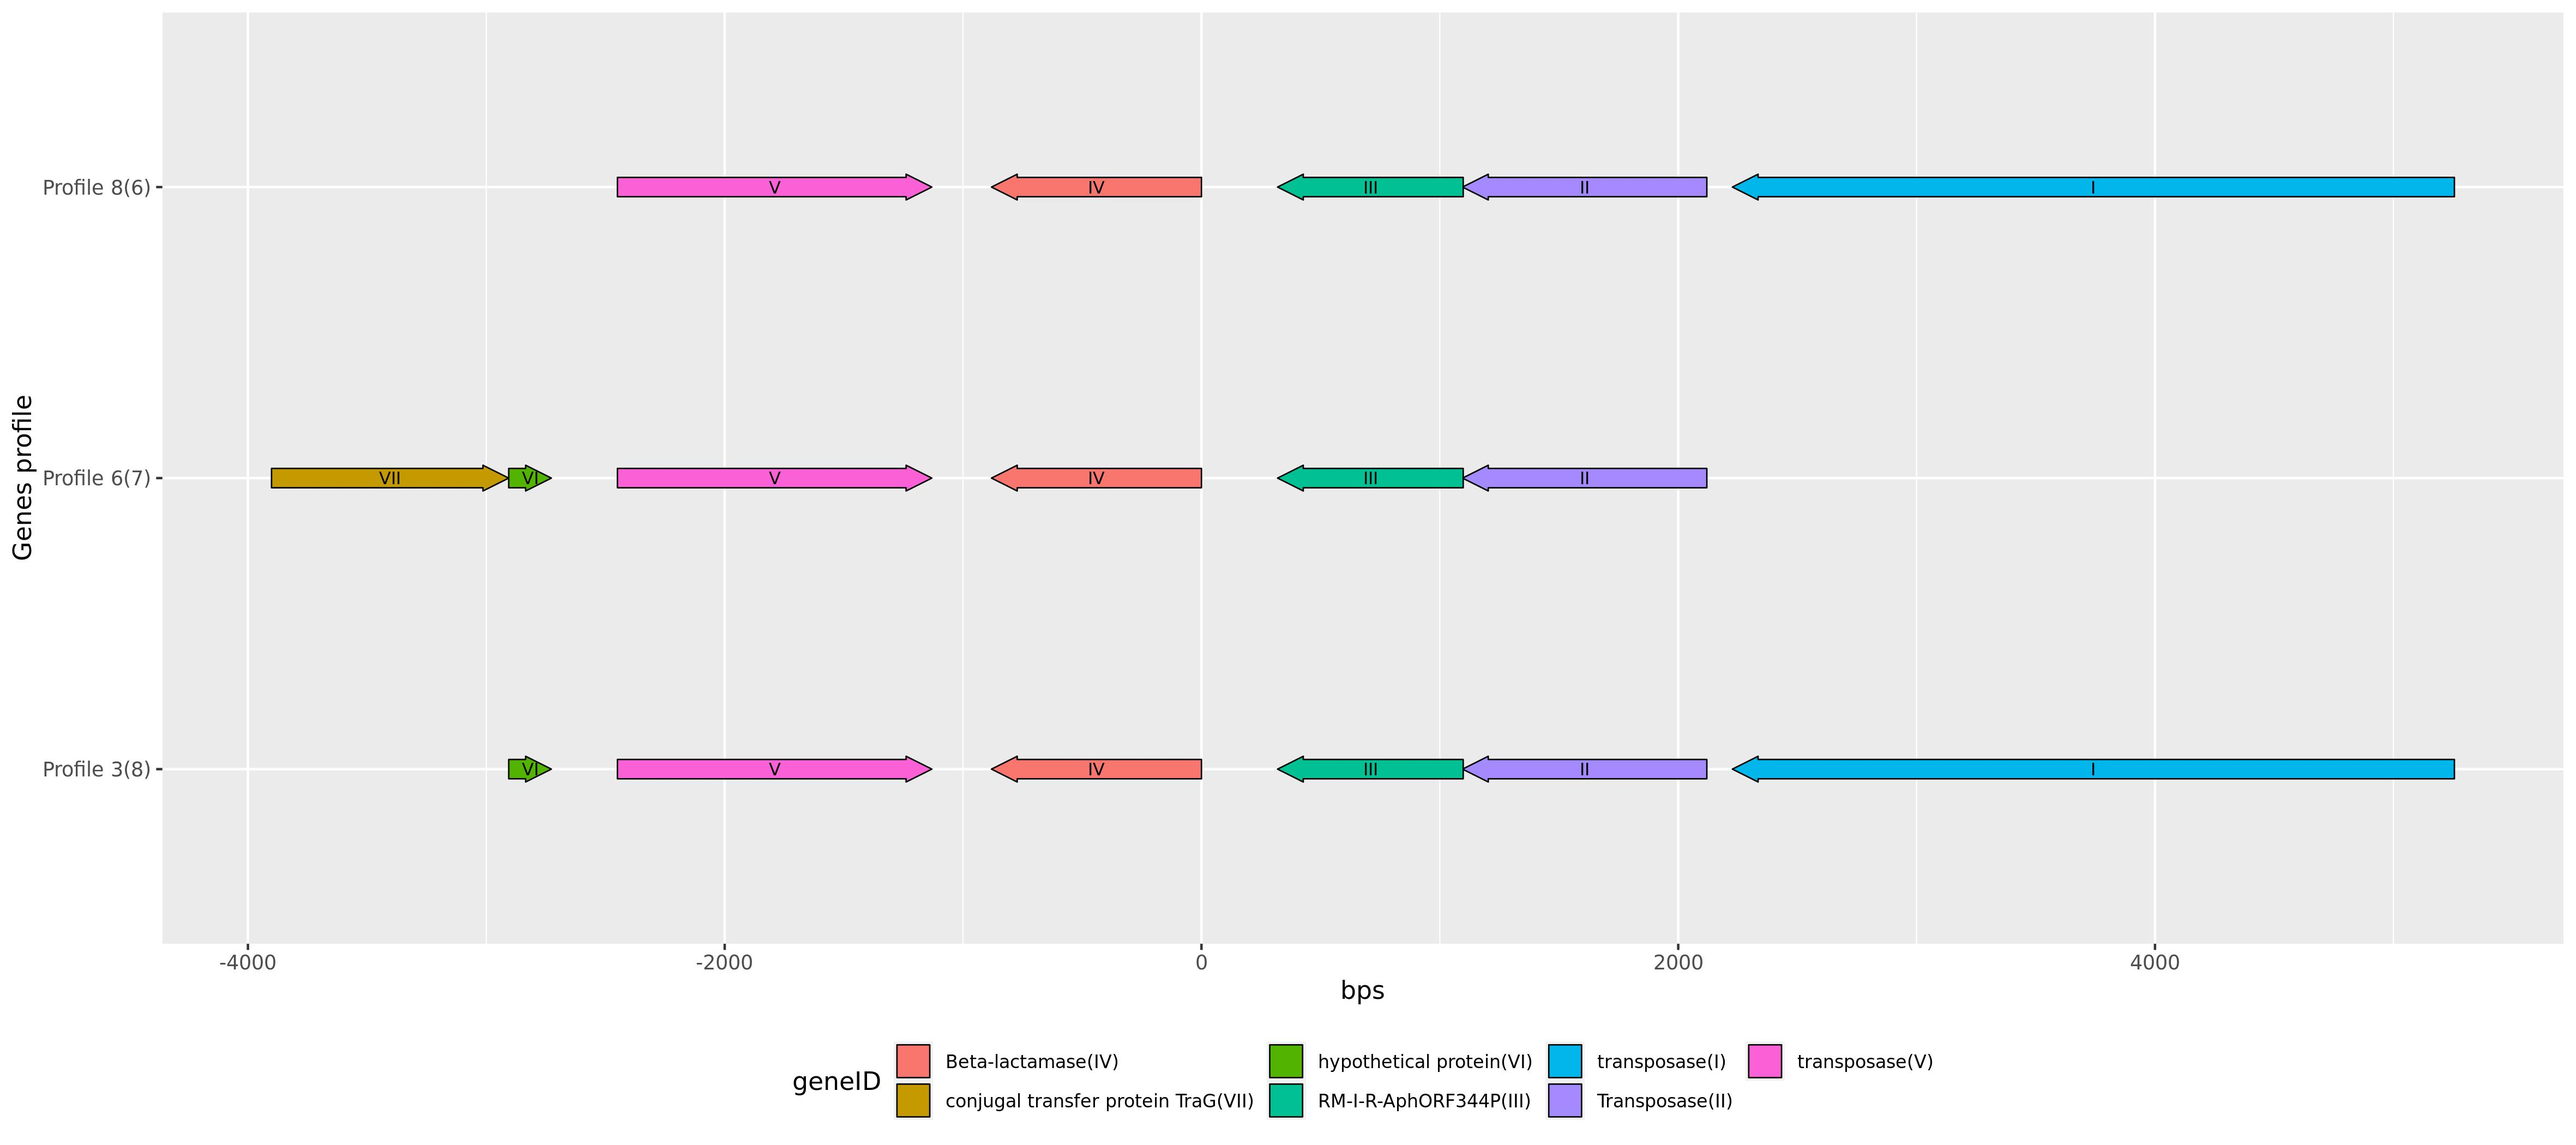
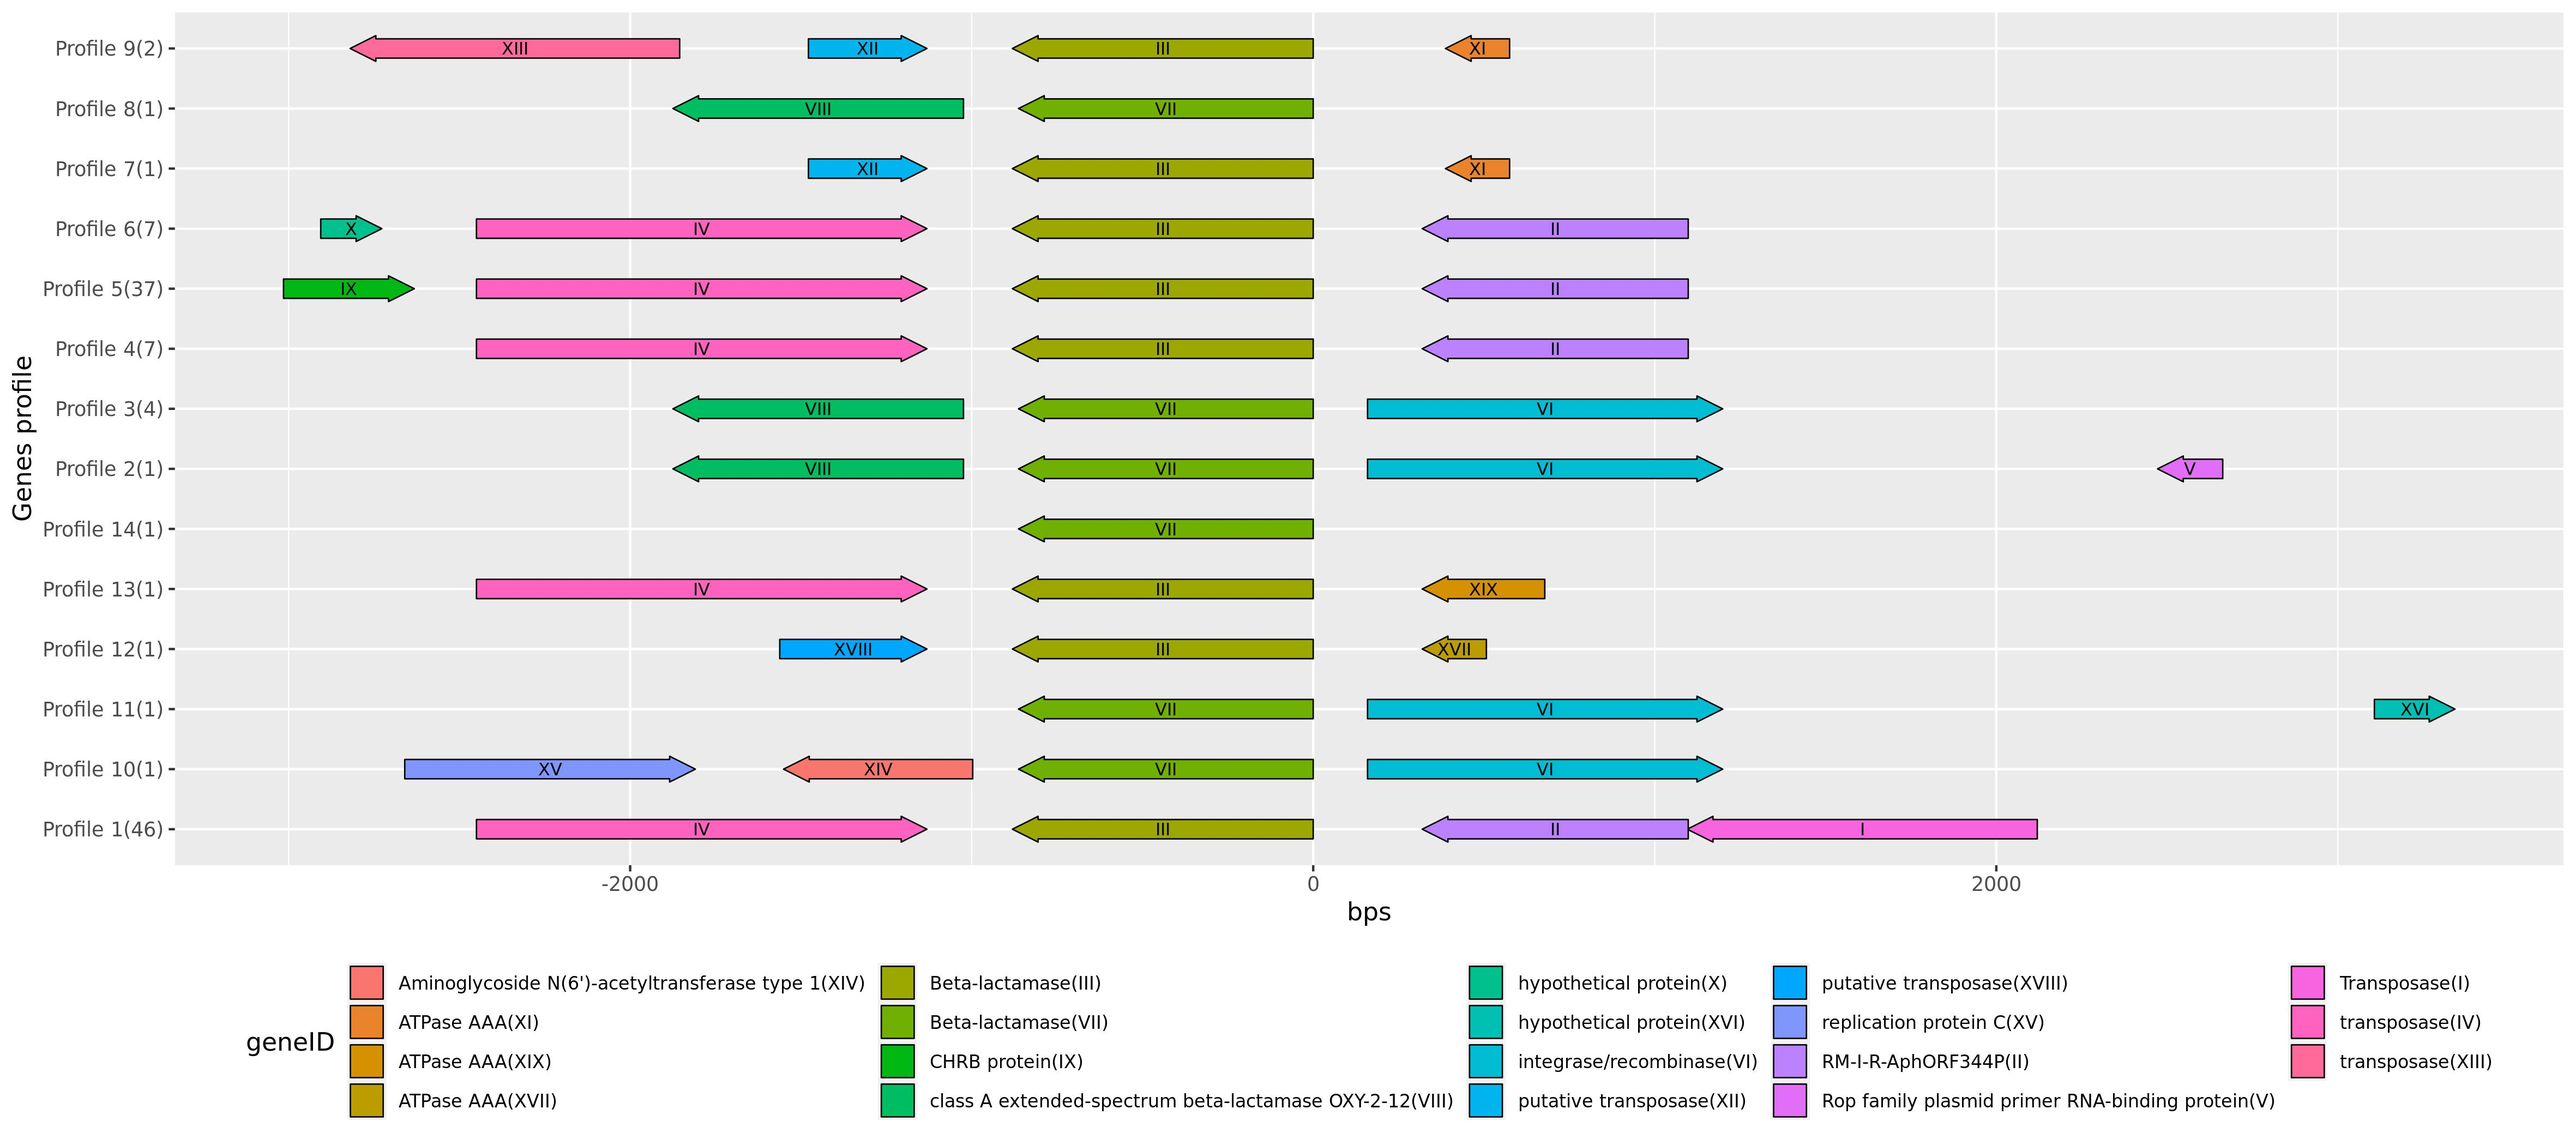
should work

diff --git a/generateGeneNeighbourhoodDiagram.py b/generateGeneNeighbourhoodDiagram.py
@@ -14,7 +14,7 @@ GffsToExclude=["3042","5145","Kp_4240","Kp4151", "3766", "5170","Kp4189","Kp4173
 targetGeneID=sys.argv[1]
 neighbourhoodSize=int(sys.argv[2])
 gffDir=sys.argv[3]
-minComboFrequency=2 #only gene profiles which occur at least this many times will be reported.
+minComboFrequency=1 #only gene profiles which occur at least this many times will be reported.
 
 if len(sys.argv)==5:
     diagramFileName=sys.argv[4]
@@ -47,13 +47,14 @@ def getGeneLabel(gffLine):
 debugCounter=0
 for gff in files:
     if gff.replace(".gff","") not in GffsToExclude and gff not in GffsToExclude:
-        breakCounter=0
+        breakCounter=0 #this is required because the number of lines after the target gene is unknown
         foundGene=False
         lines=[]
+        AllLines=[]
         with open(gffDir+gff) as file:
             for line in file:
                 if line[0]!="#": #skip the header
-                    lines.append(line.strip())
+                    AllLines.append(line.strip())
                     if targetGeneID in line: 
                         foundGene=True
                         targetGeneData=line.strip().split("\t")                    
@@ -62,11 +63,14 @@ for gff in files:
                     if foundGene:
                         breakCounter=breakCounter+1
                         if breakCounter==neighbourhoodSize:
-                            lines=lines[max(0,len(lines)-neighbourhoodSize*2):len(lines)]
-                            break #don't parse the rest of the file
+                            lines=lines+AllLines[max(0,len(AllLines)-neighbourhoodSize*2):len(AllLines)]
+                            #break #the rest of the file still needs to be parsed because it may have
+                            #multiple cases of specific gene
+                            foundGene=False
+                            breakCounter=0
 
         #add file data to dictionary
-        if foundGene:
+        if foundGene or len(lines)>0:
             selectedLines[gff.replace(".gff","")]=[]
             for line in lines:
                 #check that chromosome is the same as the target gene
@@ -77,12 +81,7 @@ for gff in files:
                     else:
                         selectedLines[gff.replace(".gff","")].append(line)
             debugCounter=debugCounter+1
-            if debugCounter>20:
-                pass
-                #break
-
-
-
+ 
 df = pd.DataFrame(index=[list(selectedLines.keys())], columns=[("gene"+str(f)) for f in range(-neighbourhoodSize,neighbourhoodSize+1)])
 for name in selectedLines.keys():
     #name=file name, value=gff lines
